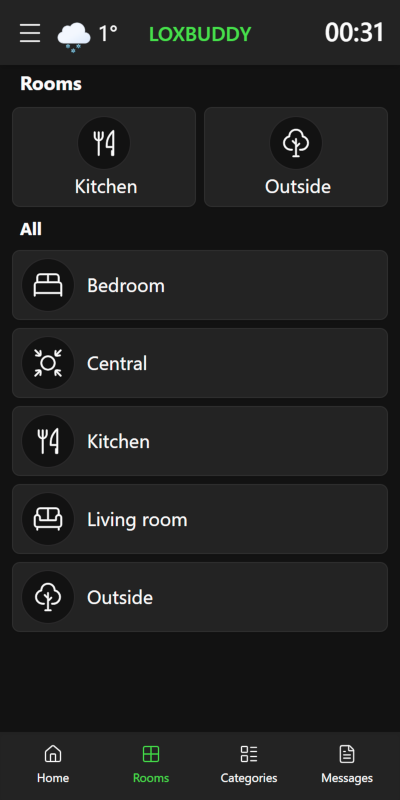
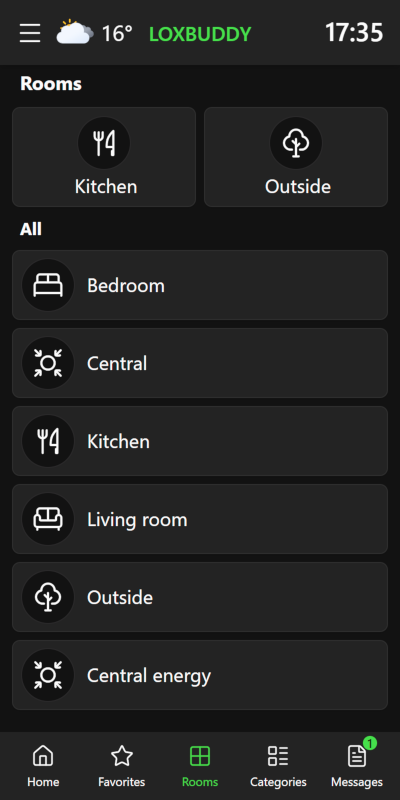
split home and favorites menu

diff --git a/src/lib/communication/LoxWsClient.ts b/src/lib/communication/LoxWsClient.ts
@@ -8,30 +8,30 @@ import { utils } from '$lib/helpers/Utils';
  */
 export class LoxWsClient {
 	private client: LoxClient;
-	private hostname: string = ''; // should include http or https
-	private username: string = '';
+	private hostName: string = ''; // should include http or https
+	private userName: string = '';
 
 	/**
 	 * Constructor to initialize WebSocket to the Miniserver
-	 * @param hostname Miniserver IP address and port
-	 * @param username Name of the user
+	 * @param hostName Miniserver IP address and port (incl http(s))
+	 * @param userName Name of the user
 	 * @param password Password of the user
 	 * @param appId Unique application ID for each client
 	 * @param logLevel logger level
 	 */
-	constructor(hostname: string, username: string, password: string, appId: string, logLevel: number) {
-		this.hostname = hostname;
-		this.username = username;
+	constructor(hostName: string, userName: string, password: string, appId: string, logLevel: number) {
+		this.hostName = hostName.replace(/\/$/, ''); // remove optional trailing slash
+		this.userName = userName;
 
 		if (!appId.length) {
 			console.error('[LoxWsClient] Invalid App ID, cannot connect to Miniserver');
 		}
 
-		if (!username.length) {
+		if (!userName.length) {
 			console.error('[LoxWsClient] Invalid username, cannot connect to Miniserver');
 		}
 
-		this.client = new LoxClient(hostname, username, password, appId, { logLevel: logLevel });
+		this.client = new LoxClient(hostName, userName, password, appId, { logLevel: logLevel });
 
 		// register event callbacks
 		this.registerEvents();
@@ -52,7 +52,7 @@ export class LoxWsClient {
 				const newToken = this.client.auth.tokenHandler.token;
 				if (newToken) {
 					console.info('[LoxWsClient] Token received and stored');
-					appStore.storeCredentials({ hostname: this.hostname, username: this.username, token: newToken });
+					appStore.storeCredentials({ hostName: this.hostName, userName: this.userName, token: newToken });
 				}
 			}
 		}	catch {
@@ -68,6 +68,7 @@ export class LoxWsClient {
 			console.info('[LoxWsClient] Get structure file...');
 			const structure = await this.client.getStructureFile();
 			controlStore.initStructure(structure, this);
+			console.info('structure', structure);
 			this.client.parseStructureFile();
 
 			// initiates streaming of all events
@@ -96,7 +97,7 @@ export class LoxWsClient {
 		});
 
 		this.client.on('authenticated', () => {
-			console.info(`[LoxWsClient] User ${this.username} authenticated`);
+			console.info(`[LoxWsClient] User ${this.userName} authenticated`);
 			appStore.loxStatus = 1;
 			appStore.loginDialog.state = false; // close login dialog
 		});
@@ -157,7 +158,7 @@ export class LoxWsClient {
 	 * Retrieve user settings (e.g. sorting/order of controls)
 	 */
 	getUserSettings() {
-		fetch(`${this.hostname}/jdev/sps/getusersettings?autht=${appStore.credentials.token}&user=${this.username}`)
+		fetch(`${this.hostName}/jdev/sps/getusersettings?autht=${appStore.credentials.token}&user=${this.userName}`)
 		.then((response) => {
 			if (response.ok) {
 				return response.json();
@@ -175,7 +176,7 @@ export class LoxWsClient {
 	 * Retrieve Miniserver system status
 	 */
 	getSystemStatus() {
-		fetch(`${this.hostname}/jdev/sps/io/${controlStore.messageCenterList[0].uuidAction}/getEntries/2?autht=${appStore.credentials.token}&user=${this.username}`)
+		fetch(`${this.hostName}/jdev/sps/io/${controlStore.messageCenterList[0].uuidAction}/getEntries/2?autht=${appStore.credentials.token}&user=${this.userName}`)
 		.then((response) => {
 			if (response.ok) {
 				return response.json();
@@ -191,7 +192,7 @@ export class LoxWsClient {
 	 * Retrieve Miniserver icon list
 	 */
 	getIconList() {
-		fetch(`${this.hostname}/jdev/sps/geticonlist?autht=${appStore.credentials.token}&user=${this.username}`)
+		fetch(`${this.hostName}/jdev/sps/geticonlist?autht=${appStore.credentials.token}&user=${this.userName}`)
 		.then((response) => response.json())
 		.then((data) => {
 			controlStore.iconList = data;
@@ -204,7 +205,7 @@ export class LoxWsClient {
 	 * @param url webservices endpoint (e.g., /jdev/sps/io/...)
 	*/
 	async fetch(url: string) {
-		return fetch(`${this.hostname}/${url}?autht=${appStore.credentials.token}&user=${this.username}`)
+		return fetch(`${this.hostName}/${url}?autht=${appStore.credentials.token}&user=${this.userName}`)
 		.then((response) => response.json())
 		.then((data) => {
 			//console.debug('[LoxWsClient] fetch data', data)

diff --git a/src/lib/components/Login/LbLoginDialog.svelte b/src/lib/components/Login/LbLoginDialog.svelte
@@ -11,8 +11,8 @@
 	import { demo } from '$lib/demo/Demo';
 
 	let openPopup = $state(false);
-	let hostname = $state('');
-	let username = $state('');
+	let hostName = $state('');
+	let userName = $state('');
 	let password = $state('');
 	let hidePassword = $state(true);
 
@@ -52,17 +52,18 @@
 	async function validate() {
 		showConnectDialog('Connecting to Miniserver...');
 		appStore.setDemo(0); // clear demo mode
-		if (hostname.length && username.length && password.length) {
+		hostName = hostName.replace(/\/$/, '');
+		if (hostName.length && userName.length && password.length) {
 			// 1. Check if MiniServer is reachable via hostname
 			try {
-				await fetch(hostname + '/jdev/cfg/apiKey');
+				await fetch(hostName + '/jdev/cfg/apiKey');
 			} catch (error) {
 				showMessageDialog('Miniserver not found!');
 				return;
 			}
 			// 2. Check username/password combination via http call (no login yet)
 			try {
-				await checkCredentials(hostname, username, password);
+				await checkCredentials(hostName, userName, password);
 			} catch (error) {
 				showMessageDialog('Login credentials invalid!');
 				return;
@@ -70,14 +71,14 @@
 			// 3. Establish WebSocket connection (no login yet)
 			let loxClient;
 			try {
-				loxClient = new LoxWsClient(hostname, username, password, appStore.appId, 0);
+				loxClient = new LoxWsClient(hostName, userName, password, appStore.appId, 0);
 			} catch (error) {
 				showMessageDialog('Unable to connect to Miniserver');
 				return;
 			}
-			// 4. Check if we have a valid token, and if so, use it to connect
-			if (appStore.credentials && appStore.credentials.token) {
-				const tokenValid = await checkTokenValidity(hostname, username, appStore.credentials.token);
+			// 4. Check if we use the same credentials and have a valid token, and if so, use it to connect
+			if (appStore.credentials && appStore.credentials.hostName == hostName && appStore.credentials.userName == userName && appStore.credentials.token) {
+				const tokenValid = await checkTokenValidity(hostName, userName, appStore.credentials.token);
 				if (tokenValid) {
 					await loxClient.connect(appStore.credentials.token);
 				}
@@ -102,7 +103,7 @@
 	}
 
 	function select(item: any) {
-		hostname = item.ipaddr;
+		hostName = item.ipaddr;
 		openPopup = false;
 	}
 
@@ -163,7 +164,7 @@
 										<span class="label-text">{$_("Miniserver")}</span>
 									</div>
 									<div class="input-group grid-cols-[1fr_auto]">
-										<input class="ig-input" type="text" bind:value={hostname} placeholder={$_("IP address:port")} />
+										<input class="ig-input" type="text" bind:value={hostName} placeholder={$_("IP address:port")} />
 										{#if env.PUBLIC_ALLOW_SEARCH}
 										<div class="ig-btn preset-tonal" onclick={doSearch}>
 											<LbIcon name="search" height="16" width="16"/>
@@ -175,7 +176,7 @@
 									<div class="flex flex-row gap-3">
 										<span class="label-text">{$_("Username")}</span>
 									</div>
-									<input class="input" type="text" bind:value={username} placeholder={$_("Username")} autocomplete="username"/>
+									<input class="input" type="text" bind:value={userName} placeholder={$_("Username")} autocomplete="username"/>
 								</label>
 								<label class="label">
 									<div class="flex flex-row gap-3">
@@ -194,7 +195,7 @@
 								</label>
 							</fieldset>
 							<fieldset class="pt-3 flex justify-center">
-								<button type="submit" class="w-full btn { hostname.length && username.length > 0 && password.length > 0 ? 'preset-filled-primary-500' : 'preset-outlined-surface-300-700'}">{$_("Connect")}</button>
+								<button type="submit" class="w-full btn { hostName.length && userName.length > 0 && password.length > 0 ? 'preset-filled-primary-500' : 'preset-outlined-surface-300-700'}">{$_("Connect")}</button>
 							</fieldset>
 						</form>
 						<button class="m-3 h6 dark:text-primary-500 text-primary-700" onclick={startDemo}>{$_("Start Demo")}</button>

diff --git a/src/routes/favs/+page.svelte b/src/routes/favs/+page.svelte
@@ -6,7 +6,6 @@
 	import { appStore } from '$lib/stores/LbAppStore.svelte';
 	import { controlStore } from '$lib/stores/LbControlStore.svelte';
 	import { flip } from 'svelte/animate';
-	import { goto } from '$app/navigation';
 
 	let fav = 'favorites';
 	let dragGroup = $state('');
@@ -14,15 +13,21 @@
 	let animatingItems = new Set();
 
 	let userSettings = $derived(controlStore.userSettings);
-	let centralRooms = $derived(controlStore.roomList.filter( (room) => room.name.includes($_('General')) || room.name.includes($_('Central'))));
-	let centralRoomsUuids = $derived(centralRooms.map( room => room.uuid));
 	let controlOptions: ControlOptions = $derived(DEFAULT_CONTROLOPTIONS);
 
-	let centralControls = $derived(
-		controlStore.controlList.filter((control) => centralRoomsUuids.includes(control.room) && control.defaultRating > 0)
+	let favoriteControls = $derived(
+		controlStore.controlList.filter((control) => isFavorite(userSettings.userDefaultStructure, control, fav))
 		.sort((a, b) => a.name.localeCompare(b.name, appStore.locale))
 		.sort((a, b) => getPosition(userSettings.userDefaultStructure, a, fav) - getPosition(userSettings.userDefaultStructure, b, fav))
 	);
+
+	function isFavorite(obj: any, control: Control, key: string) {
+		if (obj) { 
+			return obj[control.uuidAction] ? obj[control.uuidAction][key] ? obj[control.uuidAction][key].isFav : false : false;
+		} else {
+			return control.isFavorite;
+		}
+	}
 
 	function getPosition(obj: any, control: Control, key: string) {
 		if (obj) { 
@@ -48,22 +53,18 @@
 </script>
 
 <div class="container mx-auto max-w-[800px] lg:max-w-[1280px] p-3">
-  <div class="space-y-2">
-    {#each centralRooms as centralRoom}
-      <button class="pl-2 h5" onclick={() => {goto('/room/'+centralRoom.uuid)}}>{centralRoom.name}</button>
-      <div class="grid grid-cols-2 gap-2 sm:grid-cols-3 lg:grid-cols-4 xl:grid-cols-5 lg:flex-wrap">
-        {#each centralControls.filter( control => control.room == centralRoom.uuid) as control (control)}
-          {@const Component = lbControl.getControl(control.type)}
-          <div animate:flip={{ duration: appStore.dnd.duration }}
-            draggable={appStore.dnd.isEnabled}
-            ondragstart={() => {draggingItem = control; dragGroup = centralRoom.name}}
-            ondragend={() => {draggingItem = undefined; dragGroup = ''}}
-            ondragenter={() => { centralControls = swapItems(centralControls, control, centralRoom.name)}}
-            ondragover={(event) => {event.preventDefault(); if (event && event.dataTransfer) event.dataTransfer.dropEffect = 'move';}}>
-            <Component {control} controlOptions={{...controlOptions, isFavorite: true}}/>
-          </div>
-        {/each}
-    </div>
-    {/each}
-  </div>
+	<p class="pl-2 pb-2 h5">{$_('Favorites')}</p>
+	<div class="grid grid-cols-2 gap-2 sm:grid-cols-3 lg:grid-cols-4 xl:grid-cols-5 lg:flex-wrap">
+		{#each favoriteControls as control (control)}
+			{@const Component = lbControl.getControl(control.type)}
+			<div animate:flip={{ duration: appStore.dnd.duration }}
+				draggable={appStore.dnd.isEnabled}
+				ondragstart={() => {draggingItem = control}}
+				ondragend={() => {draggingItem = undefined}}
+				ondragenter={() => { favoriteControls = swapItems(favoriteControls, control, control.name)}}
+				ondragover={(event) => {event.preventDefault(); if (event && event.dataTransfer) event.dataTransfer.dropEffect = 'move';}}>
+					<Component {control} controlOptions={{...controlOptions, isFavorite: true}}/>
+			</div>
+		{/each}
+	</div>
 </div>

diff --git a/src/lib/components/WindowMonitor/LbWindowMonitor.svelte b/src/lib/components/WindowMonitor/LbWindowMonitor.svelte
@@ -42,7 +42,7 @@
 	// TODO check what the summary is
 	function getSummary(open: number, tilted: number, unlocked: number) {
 		let summary: any = [];
-		if (open) { summary.push({ name: String(open) + ' ' + $_('Opened'), color: true}) }
+		if (open) { summary.push({ name: String(open) + ' ' + $_('Open'), color: true}) }
 		//if (numClosed) { summary.push({ name: String(numClosed) + ' ' + $_('Closed'), color: false}) }
 		if (tilted) { summary.push({ name: String(tilted) + ' ' + $_('Tilted'), color: true}) }
 		//if (numOffline) { summary.push({ name: String(numClosed) + ' ' + $_('Offline'), color: false}) }
@@ -108,7 +108,7 @@
 		if (state == 0) { stateList.push({ name: $_('Offline'), color: false}) }
 		if (state & 1) { stateList.push({ name: $_('Closed'), color: false}) }
 		if (state & 2) { stateList.push({ name: $_('Tilted'), color: true}) }
-		if (state & 4) { stateList.push({ name: $_('Opened'), color: true}) }
+		if (state & 4) { stateList.push({ name: $_('Open'), color: true}) }
 		if (state & 8) { stateList.push({ name: $_('Locked'), color: false}) }
 		if (state & 16) { stateList.push({ name: $_('Unlocked'), color: true}) }
 		return stateList

diff --git a/src/routes/+layout.svelte b/src/routes/+layout.svelte
@@ -56,6 +56,7 @@
 		{ label: 'About', href: '/about', icon: 'info', menu: true },
 		{ label: 'Log', href: '/log', icon: 'logs', menu: true },
 		{ label: 'Home', href: '/', icon: 'house', menu: false },
+		{ label: 'Favorites', href: '/favs', icon: 'favorite', menu: false },
 		{ label: 'Rooms', href: '/room', icon: 'grid-2x2', menu: false },
 		{ label: 'Categories', href: '/category', icon: 'layout-list',  menu: false },
 		{ label: 'Messages', href: '/messages', icon: 'file-text', menu: false },
@@ -275,8 +276,8 @@
 	</div>
 	{#if navigation.find ( item => item.href == path )}
 	<div>
-		<Navigation layout="bar" class="fixed bottom-0 h-[68px] shadow-inner">
-			<Navigation.Menu class="grid grid-cols-4 gap-2">
+		<Navigation layout="bar" class="fixed bottom-0 h-[68px] overflow-hidden">
+			<Navigation.Menu class="grid grid-cols-5 gap-2">
 				{#each navigation as link (link)}
 					<div onclick={() => {navigate(link.href)}}  class={anchorBar}>
 						<div class="relative inline-block">

diff --git a/src/lib/demo/Demo.ts b/src/lib/demo/Demo.ts
@@ -46,9 +46,12 @@ export class Demo {
 
 		setTimeout( () => {
 			controlStore.setInitialStates(states);
-			controlStore.userSettings = userSettings;
 			controlStore.updateNotificationMap(notification);
 		}, 200);
+
+		setTimeout( () => {
+			controlStore.userSettings = userSettings;
+		}, 1000);
 
 		// Meter
 		setInterval(() => {

diff --git a/src/lib/types/models.ts b/src/lib/types/models.ts
@@ -657,14 +657,14 @@ export const DEFAULT_USERSETTINGS: UserSettings = {
 }
 
 export type Credentials = {
-	hostname: string;
-	username: string;
+	hostName: string;
+	userName: string;
 	token: string;
 }
 
 export const NO_CREDENTIALS: Credentials = {
-	hostname: '',
-	username: '',
+	hostName: '',
+	userName: '',
 	token: ''
 }
 

diff --git a/src/lib/components/SmokeAlarm/LbSmokeAlarm.svelte b/src/lib/components/SmokeAlarm/LbSmokeAlarm.svelte
@@ -32,7 +32,7 @@
 		switch (level) {
 			case 0: 
 				statusName = 'Everything OK'; 
-				statusColor = 'text-green-500 fill-green-500';
+				statusColor = 'dark:text-primary-500 text-primary-700';
 				break;
 			case 1: 
 				statusName = 'Pre-alarm active'; 
